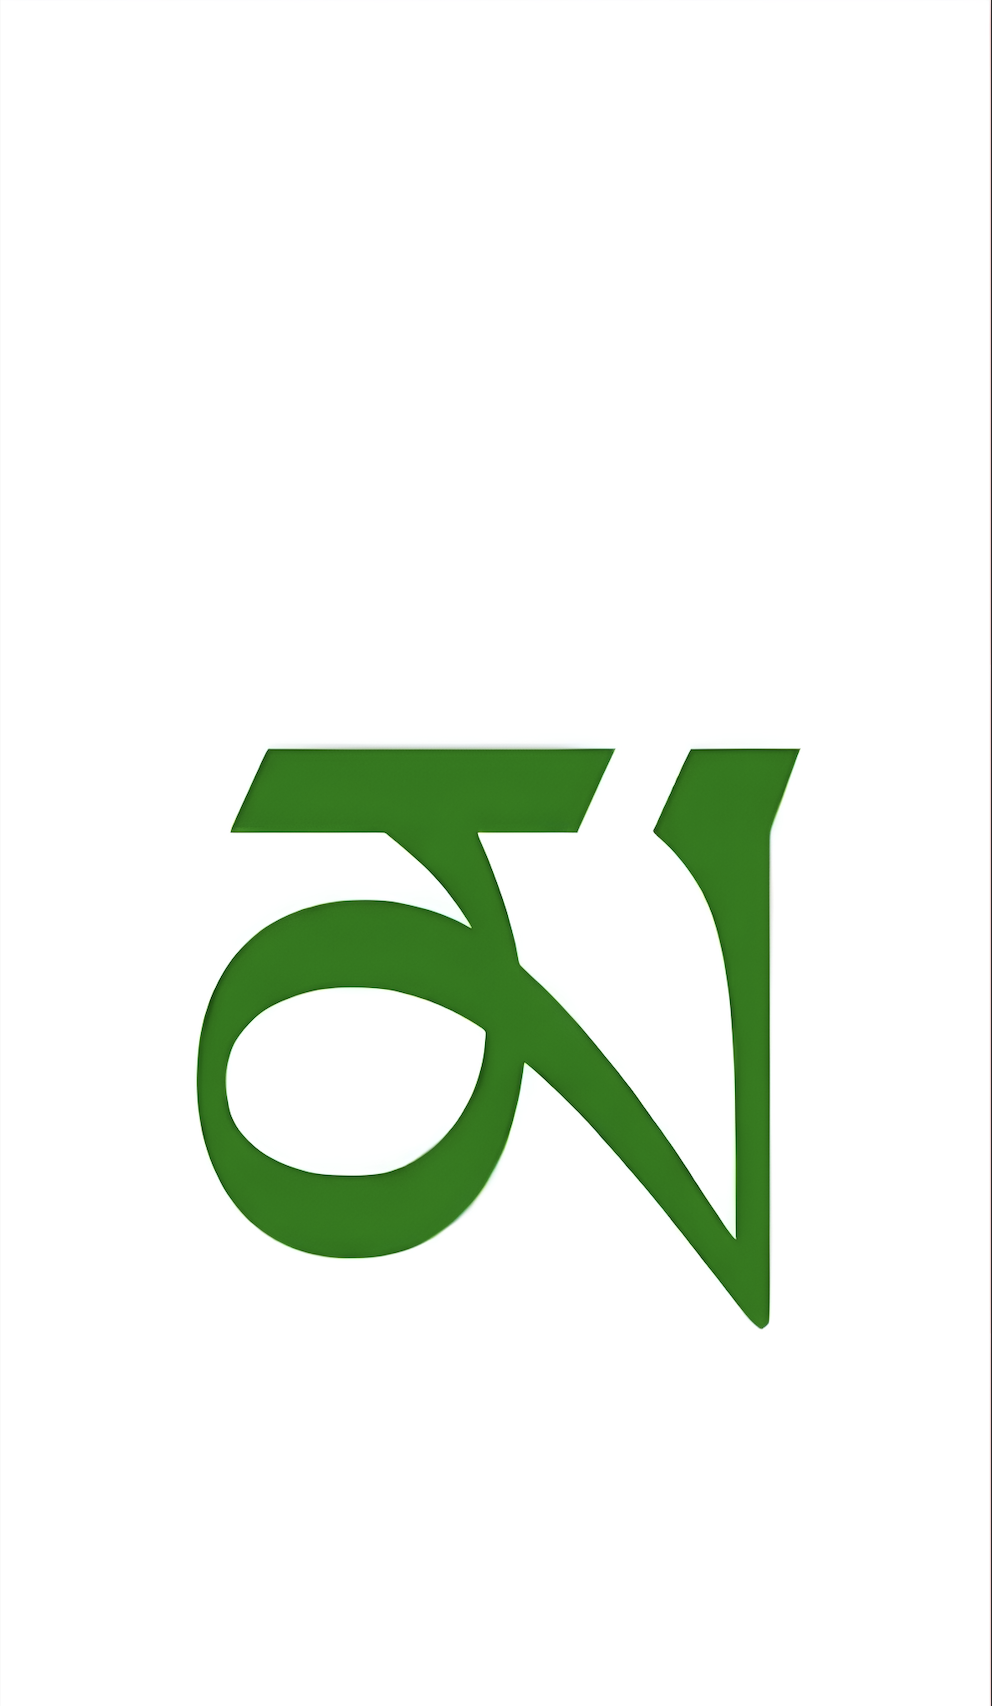
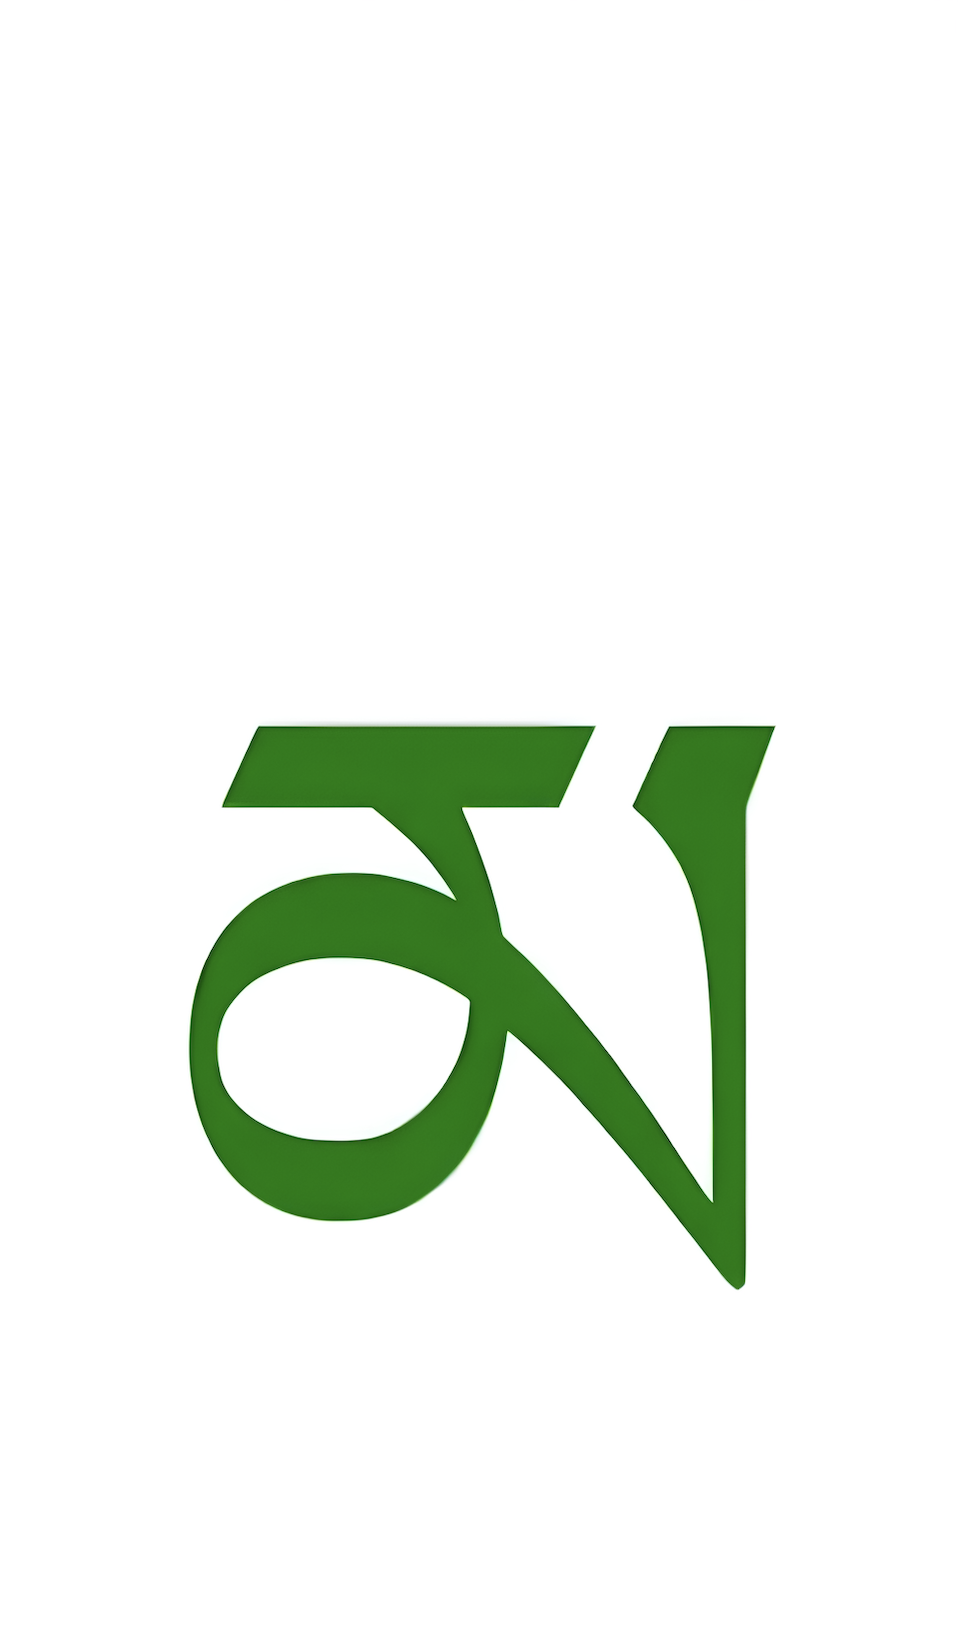
Update checkout white section artwork
Made-with: Cursor

diff --git a/index.html b/index.html
@@ -196,8 +196,8 @@
           class="section-art"
           src="white.png"
           alt=""
-          width="992"
-          height="1706"
+          width="958"
+          height="1650"
           loading="lazy"
           decoding="async"
         >
